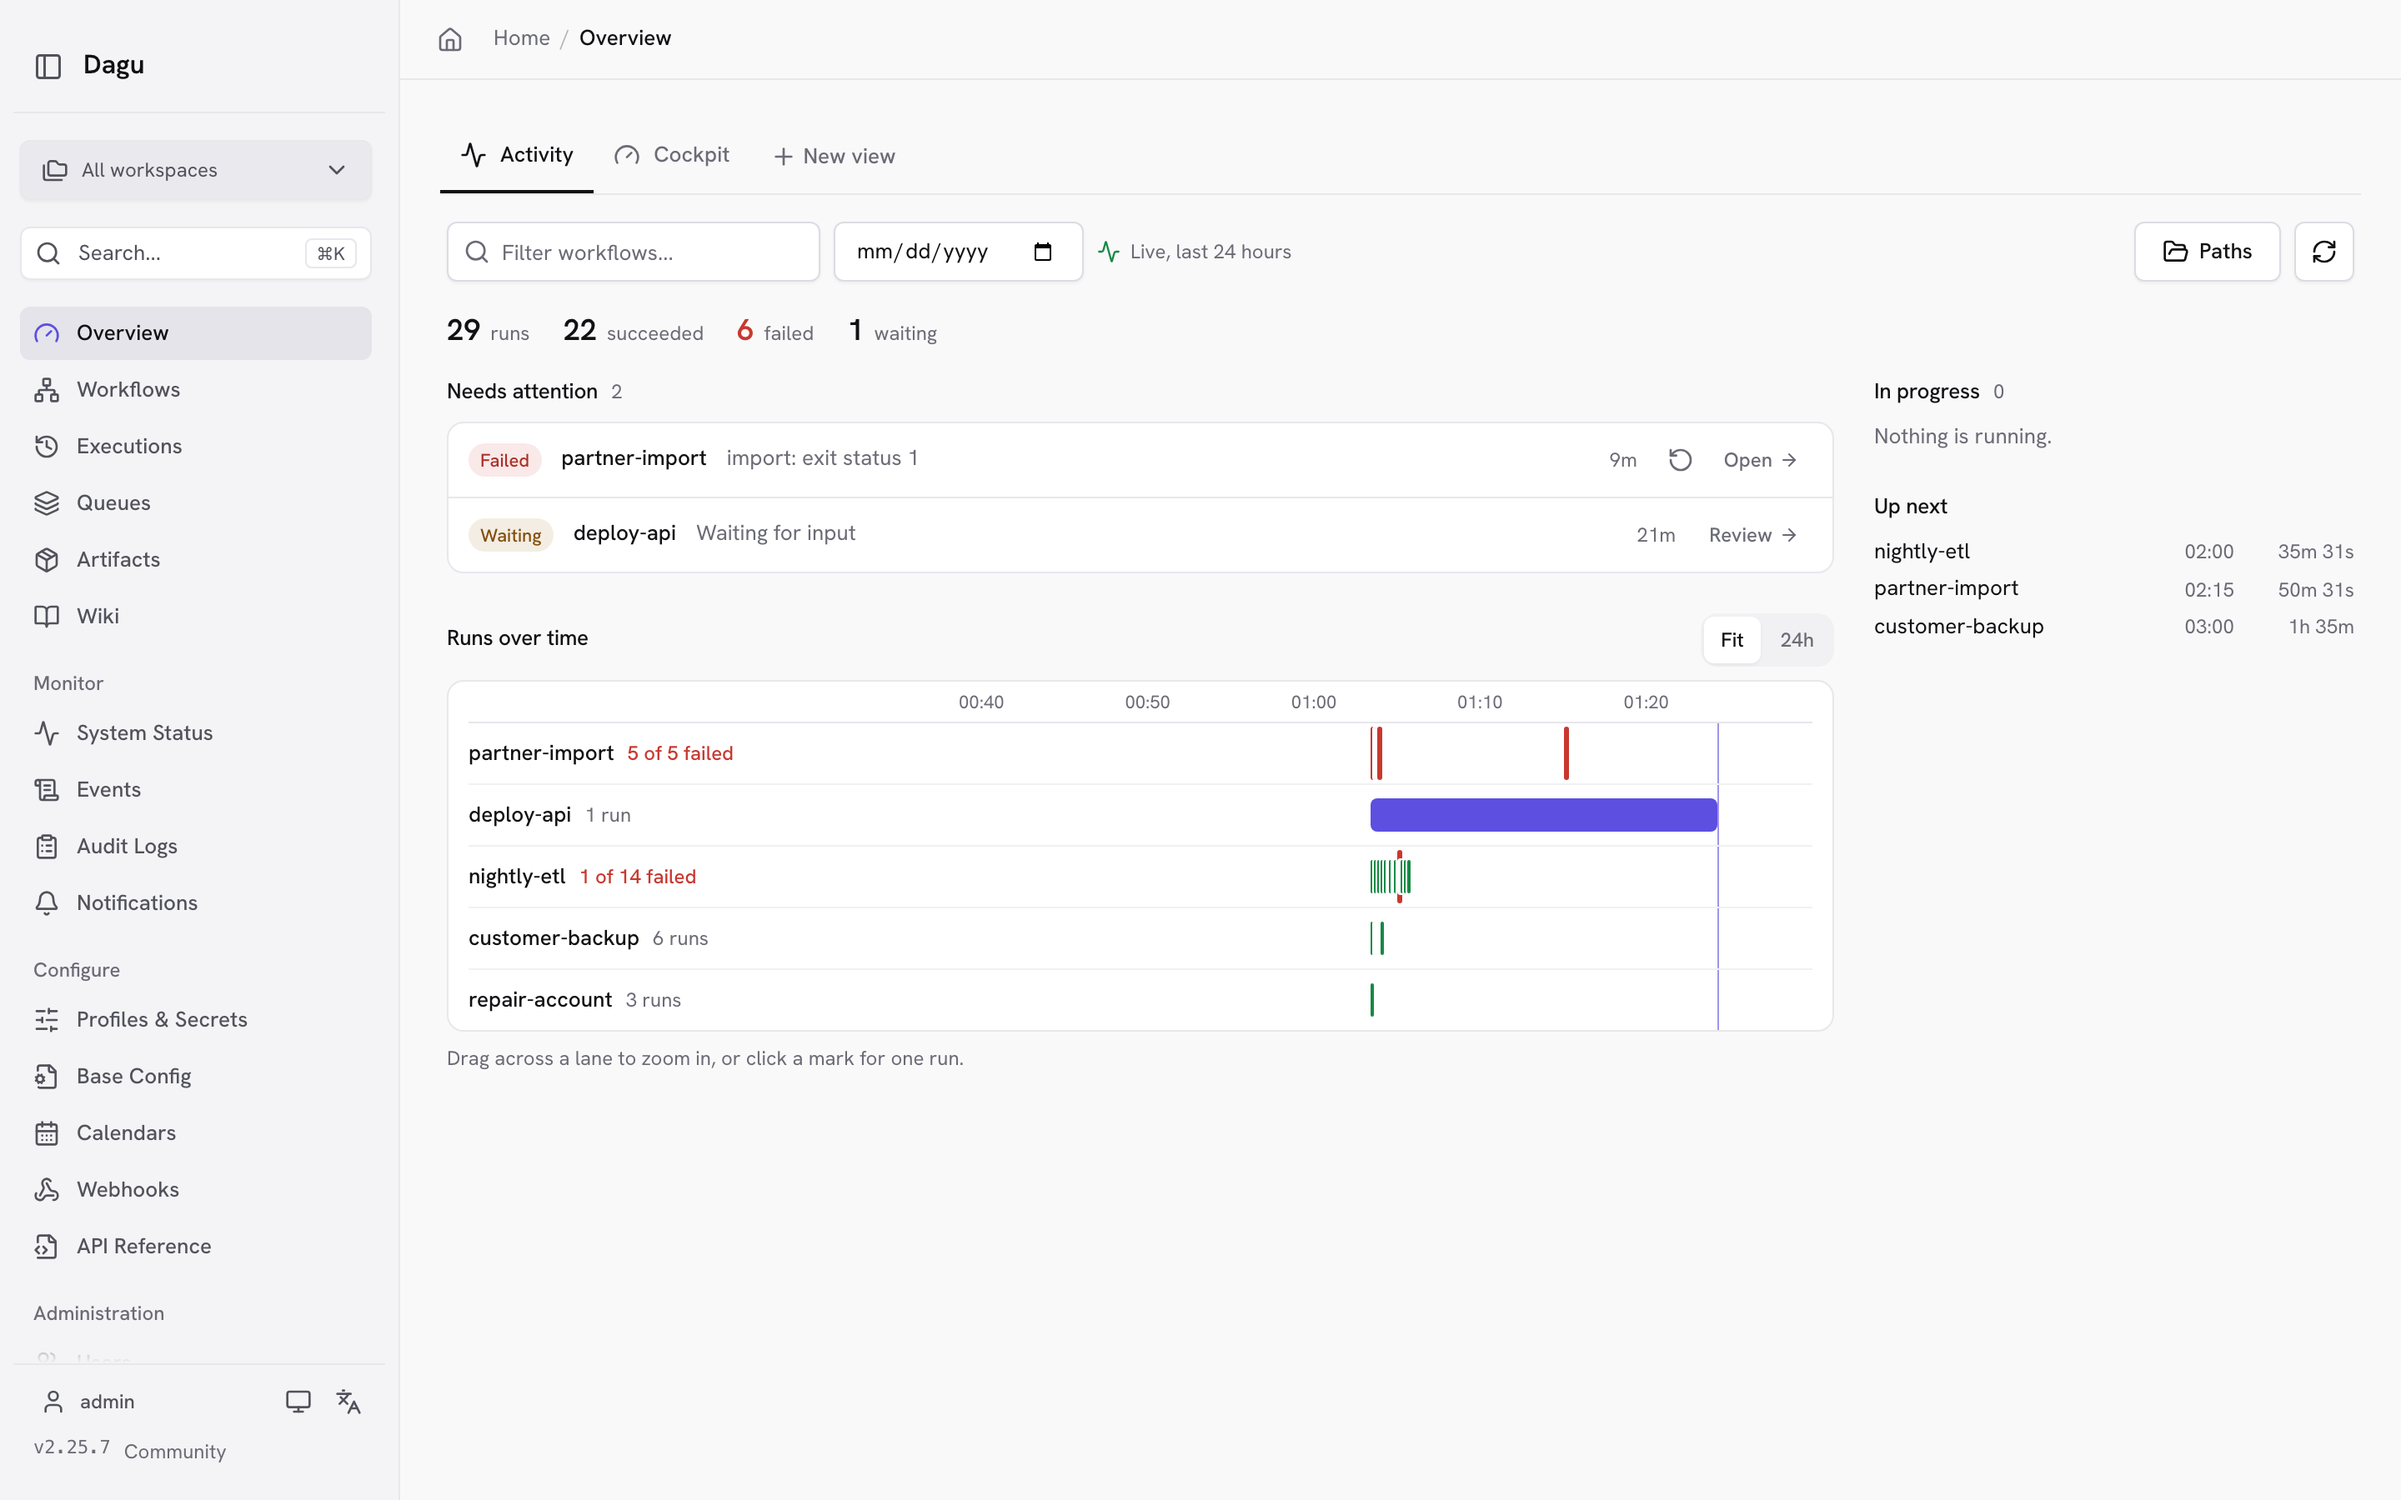
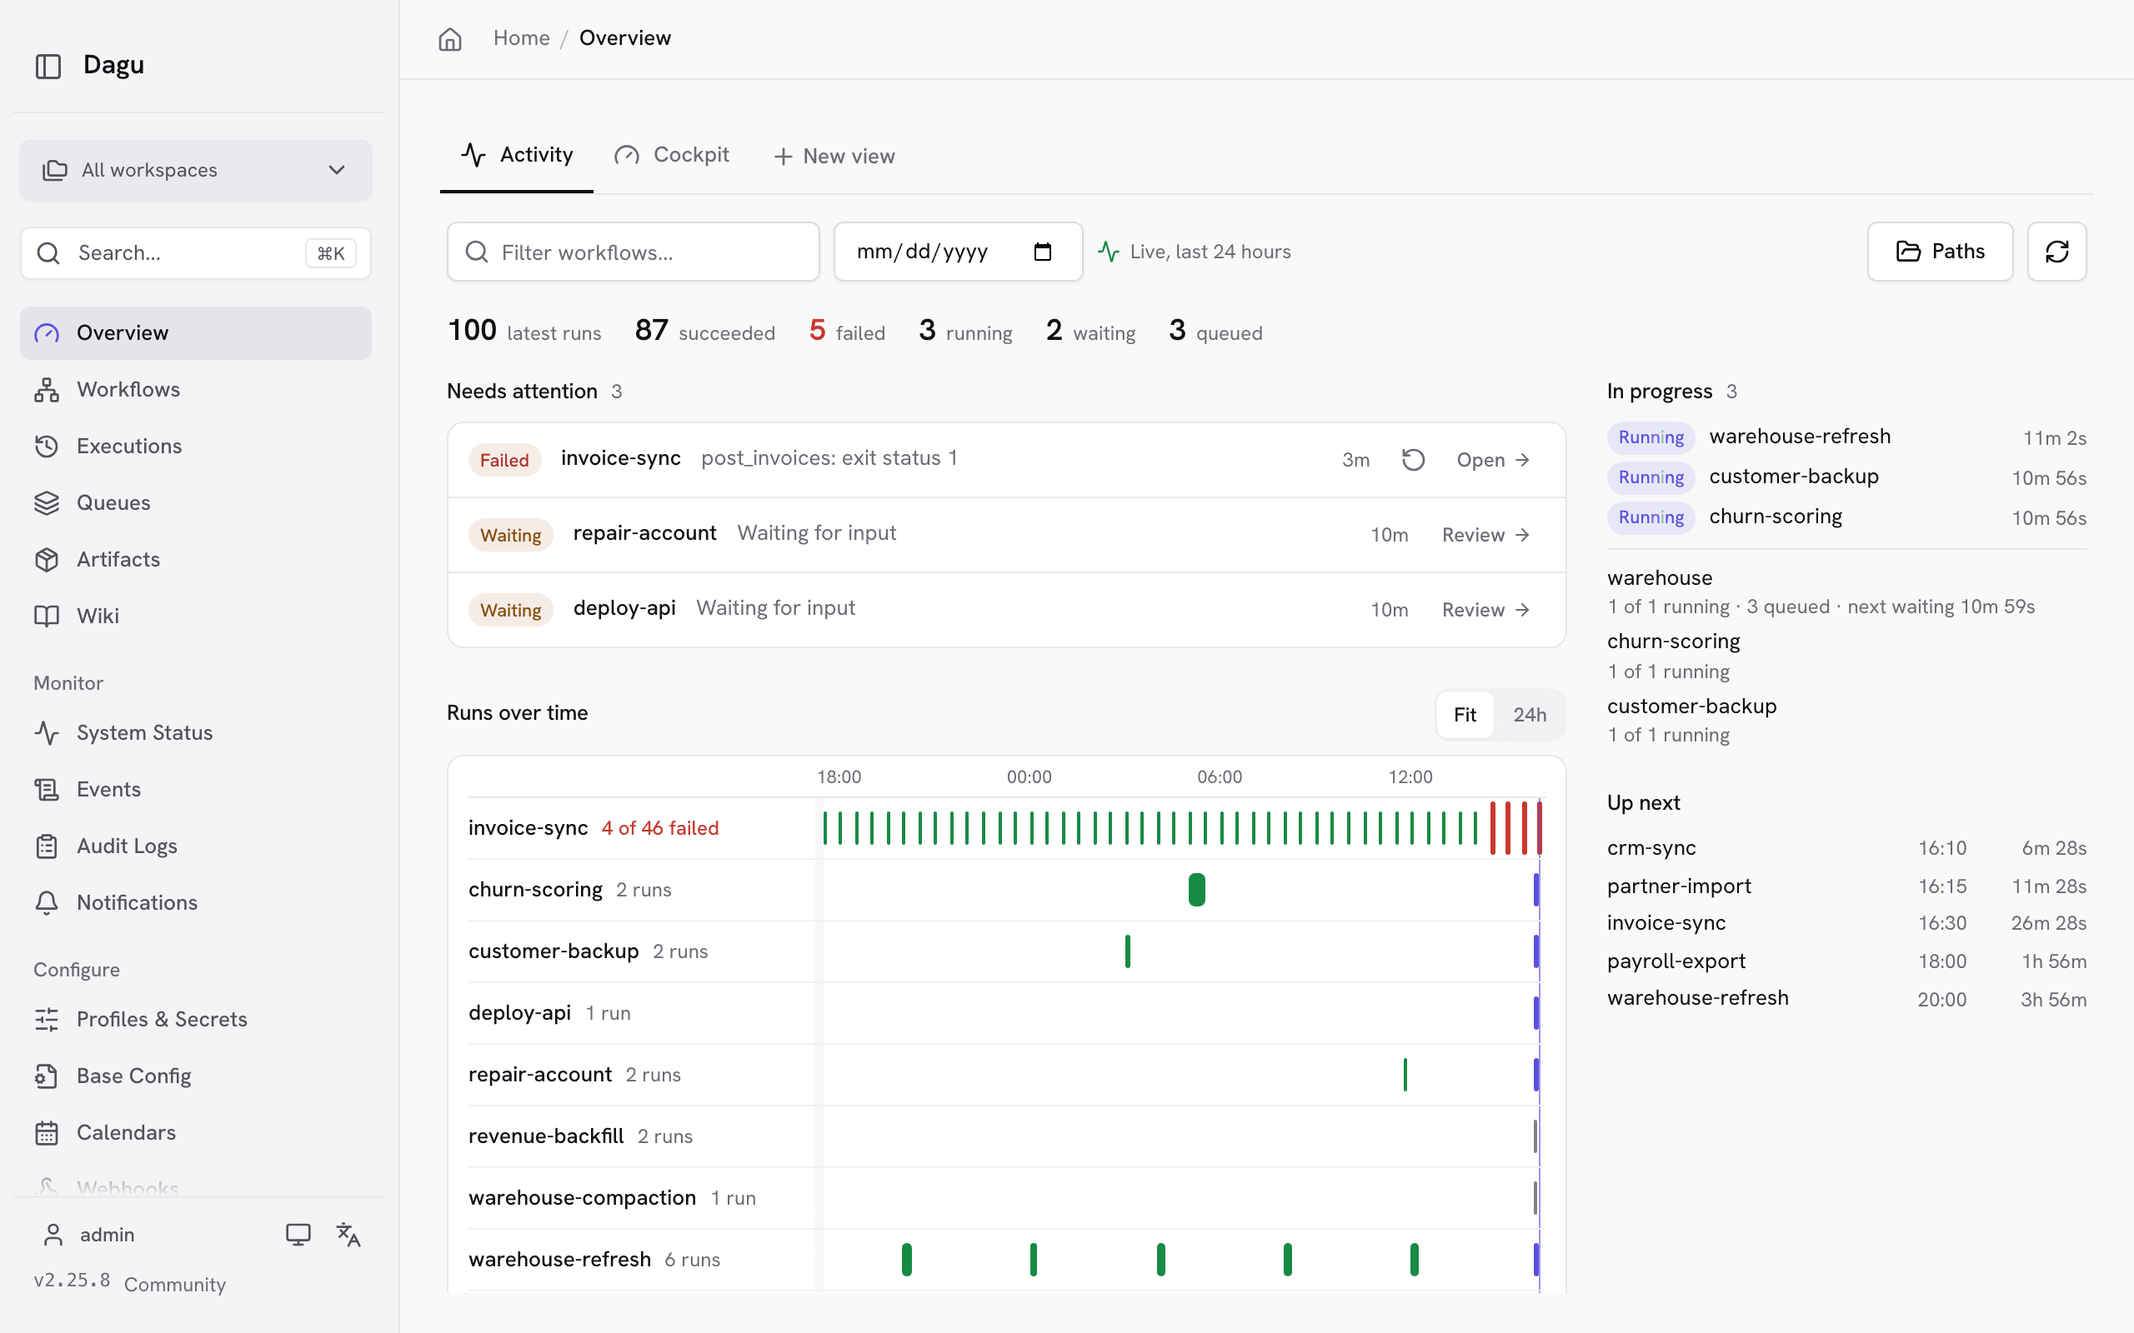
Refresh the Web UI screenshots in both themes
The Web UI page mixed themes, its Incidents image dated from May, and
the workflow page, Git Sync, Calendars, Profiles, and Secret refs had
no picture. Every image is recaptured from v2.25.8 with one demo fleet,
at one size, in light and dark.

Executions, Queues, and Artifacts were listed as main areas without a
section, so each gets a short one. Cockpit now uses the overview's
image instead of a copy of it.

diff --git a/overview/web-ui.md b/overview/web-ui.md
@@ -89,6 +89,8 @@ Unsaved drafts are kept in browser storage, and the editor reports external chan
 
 The Git Sync page displays workflows, calendars, Wiki content, and supporting files from the configured repository. Type and status filters make it easy to find scripts, templates, binaries, and other files.
 
+![Git Sync](/git-sync.png)
+
 Use the page to pull remote changes, review text or binary differences, publish selected edits, and resolve conflicts. Supporting-file diffs also show executable permissions and remote deletions when applicable. See [Git Sync](/server-admin/git-sync) for repository layout, configuration, CLI commands, and production guidance.
 
 ## Calendars
@@ -97,11 +99,13 @@ Open **Configure > Calendars** to list the business calendars that start schedul
 
 A calendar's page opens its YAML in an editor with schema completion and problems marked on their lines, beside a year view that follows each edit. It lists the DAGs and calendars that depend on the calendar, and a calendar in use cannot be deleted. See [Business Calendars](/writing-workflows/business-calendars).
 
+![Calendar page](/calendars.png)
+
 ## Activity
 
 The **Activity** tab of **Overview** gives you a broader operations view than Cockpit.
 
-![Dashboard](/dashboard.png)
+![Activity](/dashboard.png)
 
 Use it to review:
 
@@ -115,7 +119,7 @@ For a run list filtered by status, date, and name, open **Executions**.
 
 The **Workflows** page lists every workflow you can access and shows its current state.
 
-![Definitions](/dag-definitions.png)
+![Workflows](/dag-definitions.png)
 
 This is the best place to:
 
@@ -137,6 +141,8 @@ the list and excluded from scheduling until the files are renamed or removed.
 
 Open a workflow from **Workflows** to edit it and follow its runs on one page.
 
+![Workflow page](/workflow-page.png)
+
 The page has three parts:
 
 - the workflow bar at the top, with the name, labels, the selected run, its actions, and **Start**
@@ -149,6 +155,8 @@ The page shows the latest run until another run is selected. Select a run on the
 
 **Start** opens the start dialog. Set parameters, a runtime profile, and an optional run ID, then start or enqueue the run. For a [build workflow](/writing-workflows/incremental-workflows), the dialog also provides **Disable reuse for this run** when every eligible step should be recomputed. With unsaved edits, the menu next to **Start** offers **Run unsaved draft**.
 
+![Start dialog](/runtime-profile-start-dialog.png)
+
 The icons next to the run chip act on the selected run: stop, cancel auto-retry, reject, retry, reschedule, or dequeue, as its state allows. **Run details** shows the run's status, progress, timing, parameters, and reused outputs.
 
 For a queued run, **Run details** also shows its queued runtime conditions: the latest observed reason the run has not started yet. See [Queued Runtime Conditions](/server-admin/queues#queued-runtime-conditions) for the exact condition fields and reason names.
@@ -159,6 +167,8 @@ When the selected run used a different definition from the saved file, a warning
 
 Users with write access edit the workflow on the canvas.
 
+![Workflow canvas beside its YAML](/workflow-editor.png)
+
 - Press `N`, or select the **+** after a step, to add a step from the step palette.
 - Drag from one step to another to add a dependency. Right-click a step or the canvas for more actions.
 - The right column beside the canvas has two tabs, **Workflow** and **YAML**. Switch between them, or collapse the column to a rail and open a tab from it again; the page remembers the choice. On a phone they open as panels over the canvas.
@@ -167,9 +177,13 @@ Users with write access edit the workflow on the canvas.
 - The **Manual**, **Cron**, and **Webhook** launchers on the canvas show how the workflow starts. Select one to open its panel in a temporary tab of the right column. **Cron** edits the schedule and previews upcoming runs. **Webhook** holds the webhook settings.
 - **Save** shows the changes against the saved version before it writes the file. **Undo**, **Redo**, and **Revert to the last save** act on unsaved edits.
 
+![Step palette](/workflow-palette.png)
+
 ### Steps
 
 Click a step to show it in a temporary tab of the right column, so the canvas does not move. The tab shows the step in the selected run: its status, **Retry step** and **Change status** when they apply, a **Details** tab with its run facts and definition, and tabs such as **Log**, **Output**, and **History**. `Esc`, a click on empty canvas, or the **Workflow** or **YAML** tab closes it. On a phone the step opens in a panel over the canvas.
+
+![A failed step in the right column](/workflow-step.png)
 
 Double-click a step, or press `Enter` on it, to open the node view. It shows the data from upstream steps, the step's form or YAML, and its result in the selected run.
 
@@ -197,13 +211,21 @@ Select **Activity** at the bottom of the page to open the run panel. It shows a 
 
 **Log**, **History**, **Outputs**, and **Definition** are always present once the workflow has run. The other tabs appear only when the run has something to show in them. The run timeline can show a number of recent runs or a time range, and can filter runs by trigger.
 
+![Artifacts tab](/artifacts-tab-light.png)
+
 On the **History** tab, select a cell to show that run and step, or select a step name for that step's history: its success rate, usual duration, and recent results with links to their logs.
 
+![History tab](/workflow-history.png)
+
 When a run waits for an approval or a human task, the canvas shows a notice with **Open actions**, and the **Actions** tab shows how many items wait. Complete each generated form there, or select **Request changes** to push the work back when the task declares `with.push_back`. While the run is queued or running, open tasks stay visible but read-only, and typed input is kept. If the input was stored but the resume could not be queued, the same tab displays **Retry queue** so the run can recover without entering the values again.
+
+![Actions tab](/workflow-actions.png)
 
 ### Logs
 
 The **Log** tab opens a failed step on its stderr. The run's scheduler log offers a download of the full log or of every step log as a ZIP file. `Cmd`/`Ctrl`+click **View stdout** or **View stderr** in a step's run facts to open that log on a page of its own in a new tab.
+
+![Log tab of a failed step](/workflow-logs.png)
 
 ### Keyboard Shortcuts
 
@@ -220,6 +242,24 @@ The **Log** tab opens a failed step on its stderr. The run's scheduler log offer
 | `Ctrl/Cmd+S` | Save |
 | `Ctrl/Cmd+K` | Open the command palette, including **Go to step** |
 | `Shift+?` | Show every canvas shortcut |
+
+## Executions
+
+The **Executions** page lists runs across every workflow. Filter them by workflow name, run ID, status, labels, and date.
+
+![Executions](/executions.png)
+
+## Queues
+
+The **Queues** page shows each queue's capacity, with how many runs are running and queued in it. See [Queues](/server-admin/queues).
+
+![Queues](/queues.png)
+
+## Artifacts
+
+The **Artifacts** page lists the files that runs produced. Filter them by workflow name, file name, and date. See [Artifacts](/writing-workflows/artifacts).
+
+![Artifacts](/artifacts.png)
 
 ## Notifications
 
@@ -278,6 +318,8 @@ Use profiles when the same DAG should run against different environments, such a
 
 The **Executions** list and the run facts on the workflow page show the selected profile name when a profile was used. Retries inherit the original run's profile.
 
+![Profiles tab](/runtime-profiles-management.png)
+
 See [Profiles](/web-ui/profiles) for the Web UI workflow and [Runtime Profiles](/writing-workflows/runtime-profiles) for CLI, API, permission, and retry behavior.
 
 ### Secret Refs
@@ -290,6 +332,8 @@ Use it to:
 - rotate the value without editing DAG YAML
 - disable or enable a secret for future runs
 - keep the plaintext value out of API responses and workflow files
+
+![Secret refs tab](/secret-refs.png)
 
 DAGs reference Web UI-managed secrets with `ref`:
 
@@ -307,7 +351,7 @@ See [DAG Secret Refs](/web-ui/secrets) for the Web UI workflow and [Workflow Sec
 
 System Status shows the health of the scheduler, coordinator, and the current machine.
 
-![Workers](/workers.png)
+![System Status](/workers.png)
 
 This page helps you verify:
 

diff --git a/web-ui/notifications.md b/web-ui/notifications.md
@@ -4,7 +4,7 @@ Notifications route DAG-run events to team destinations without hard-coding Micr
 
 Use notifications for ordinary message delivery: Microsoft Teams, Slack, Google Chat, email, Telegram, custom webhooks, or a local command on the Dagu server. Use [Incident Routing](/web-ui/incidents) only for systems that manage an incident lifecycle, such as PagerDuty or SolarWinds Incident Response.
 
-![Notification rules in light mode](/notification-rules-light.png)
+![Notification rules](/notification-rules-light.png)
 
 ## Mental Model
 

diff --git a/web-ui/cockpit.md b/web-ui/cockpit.md
@@ -2,7 +2,7 @@
 
 Cockpit is a kanban-style view for monitoring workflow runs across days. It provides a quick overview of what is queued, running, waiting for review, done, or failed.
 
-![Cockpit](/web-ui-cockpit-demo.png)
+![Cockpit](/cockpit.png)
 
 <video src="/cockpit-demo.mp4" poster="/cockpit-demo-poster.jpg" controls preload="none" playsinline aria-label="Cockpit demo" style="width: 100%; border-radius: 8px; margin: 16px 0 24px;"></video>
 
